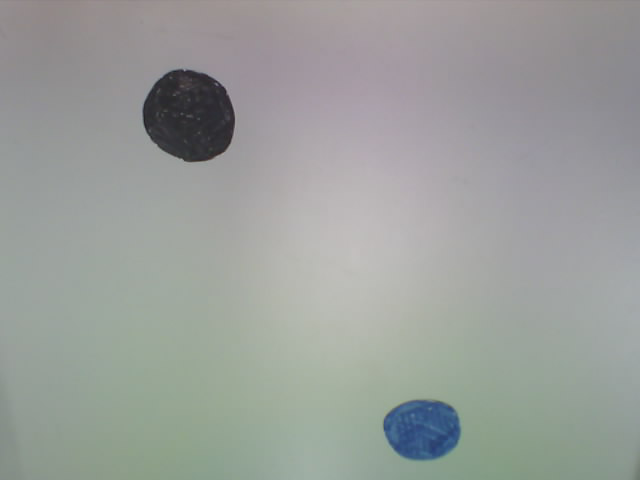
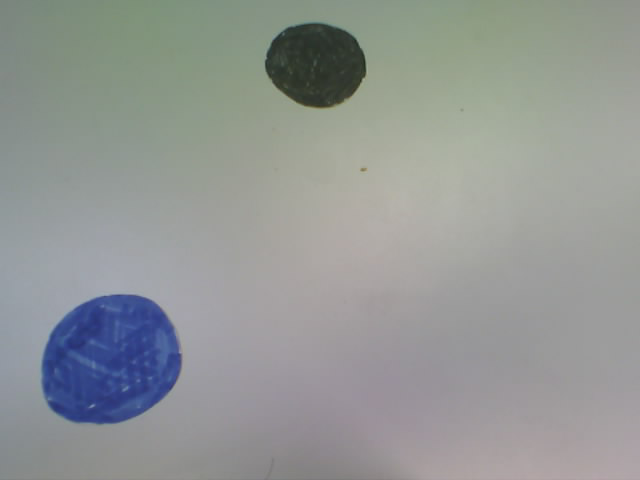
derection movement complete

diff --git a/pack_mallett2.cpp b/pack_mallett2.cpp
@@ -213,7 +213,9 @@ const char* to_c_char(int val)
 
 //タイマー制御用関数。時間が経ったらリセット
 void pwmReset(void){
-	gpioSetPWMfrequency(18, 0);
+	gpioWrite(18, 0);
+	//gpioSetPWMfrequency(18, 0);
+	gpioSetTimerFunc(0, 6000, NULL);
 }
 
 int main(int argc, char* argv[]) {
@@ -330,14 +332,14 @@ int main(int argc, char* argv[]) {
 	    if(max_amount_movement < amount_movement){
     	    amount_movement = max_amount_movement;
     	}
-		target_direction = 0;//逆転
+		target_direction = 0;//時計回り
 	}
 	else if(amount_movement < 0){
 		amount_movement = -amount_movement;//正の数にする
 		if(max_amount_movement < amount_movement){
 			amount_movement = max_amount_movement;
 		}
-		target_direction = 1;//正転
+		target_direction = 1;//反時計回り
 	}    
 
 	//pwm output
@@ -349,16 +351,6 @@ int main(int argc, char* argv[]) {
 	int closest_frequency = gpioSetPWMfrequency(18, 2000);
 	printf("setting_frequency: %d\n", closest_frequency);
 	gpioSetTimerFunc(0, (int)set_time_millis, pwmReset);
-	//gpioSetTimerFunc(0, set_time_millis, );
-	/*if(wiringPiSetupGpio()==-1){
-		printf("cannotsetup gpio.\n" );
-		return 1;
-	}
-	pinMode(18,PWM_OUTPUT);
-	pwmSetMode(PWM_MODE_MS);
-	pwmSetClock(64);
-	pwmSetRange(100);
-	pwmWrite(18,50);*/
 
     // 指定したウィンドウ内に画像を表示する
     cvShowImage("circle_sample", img);
